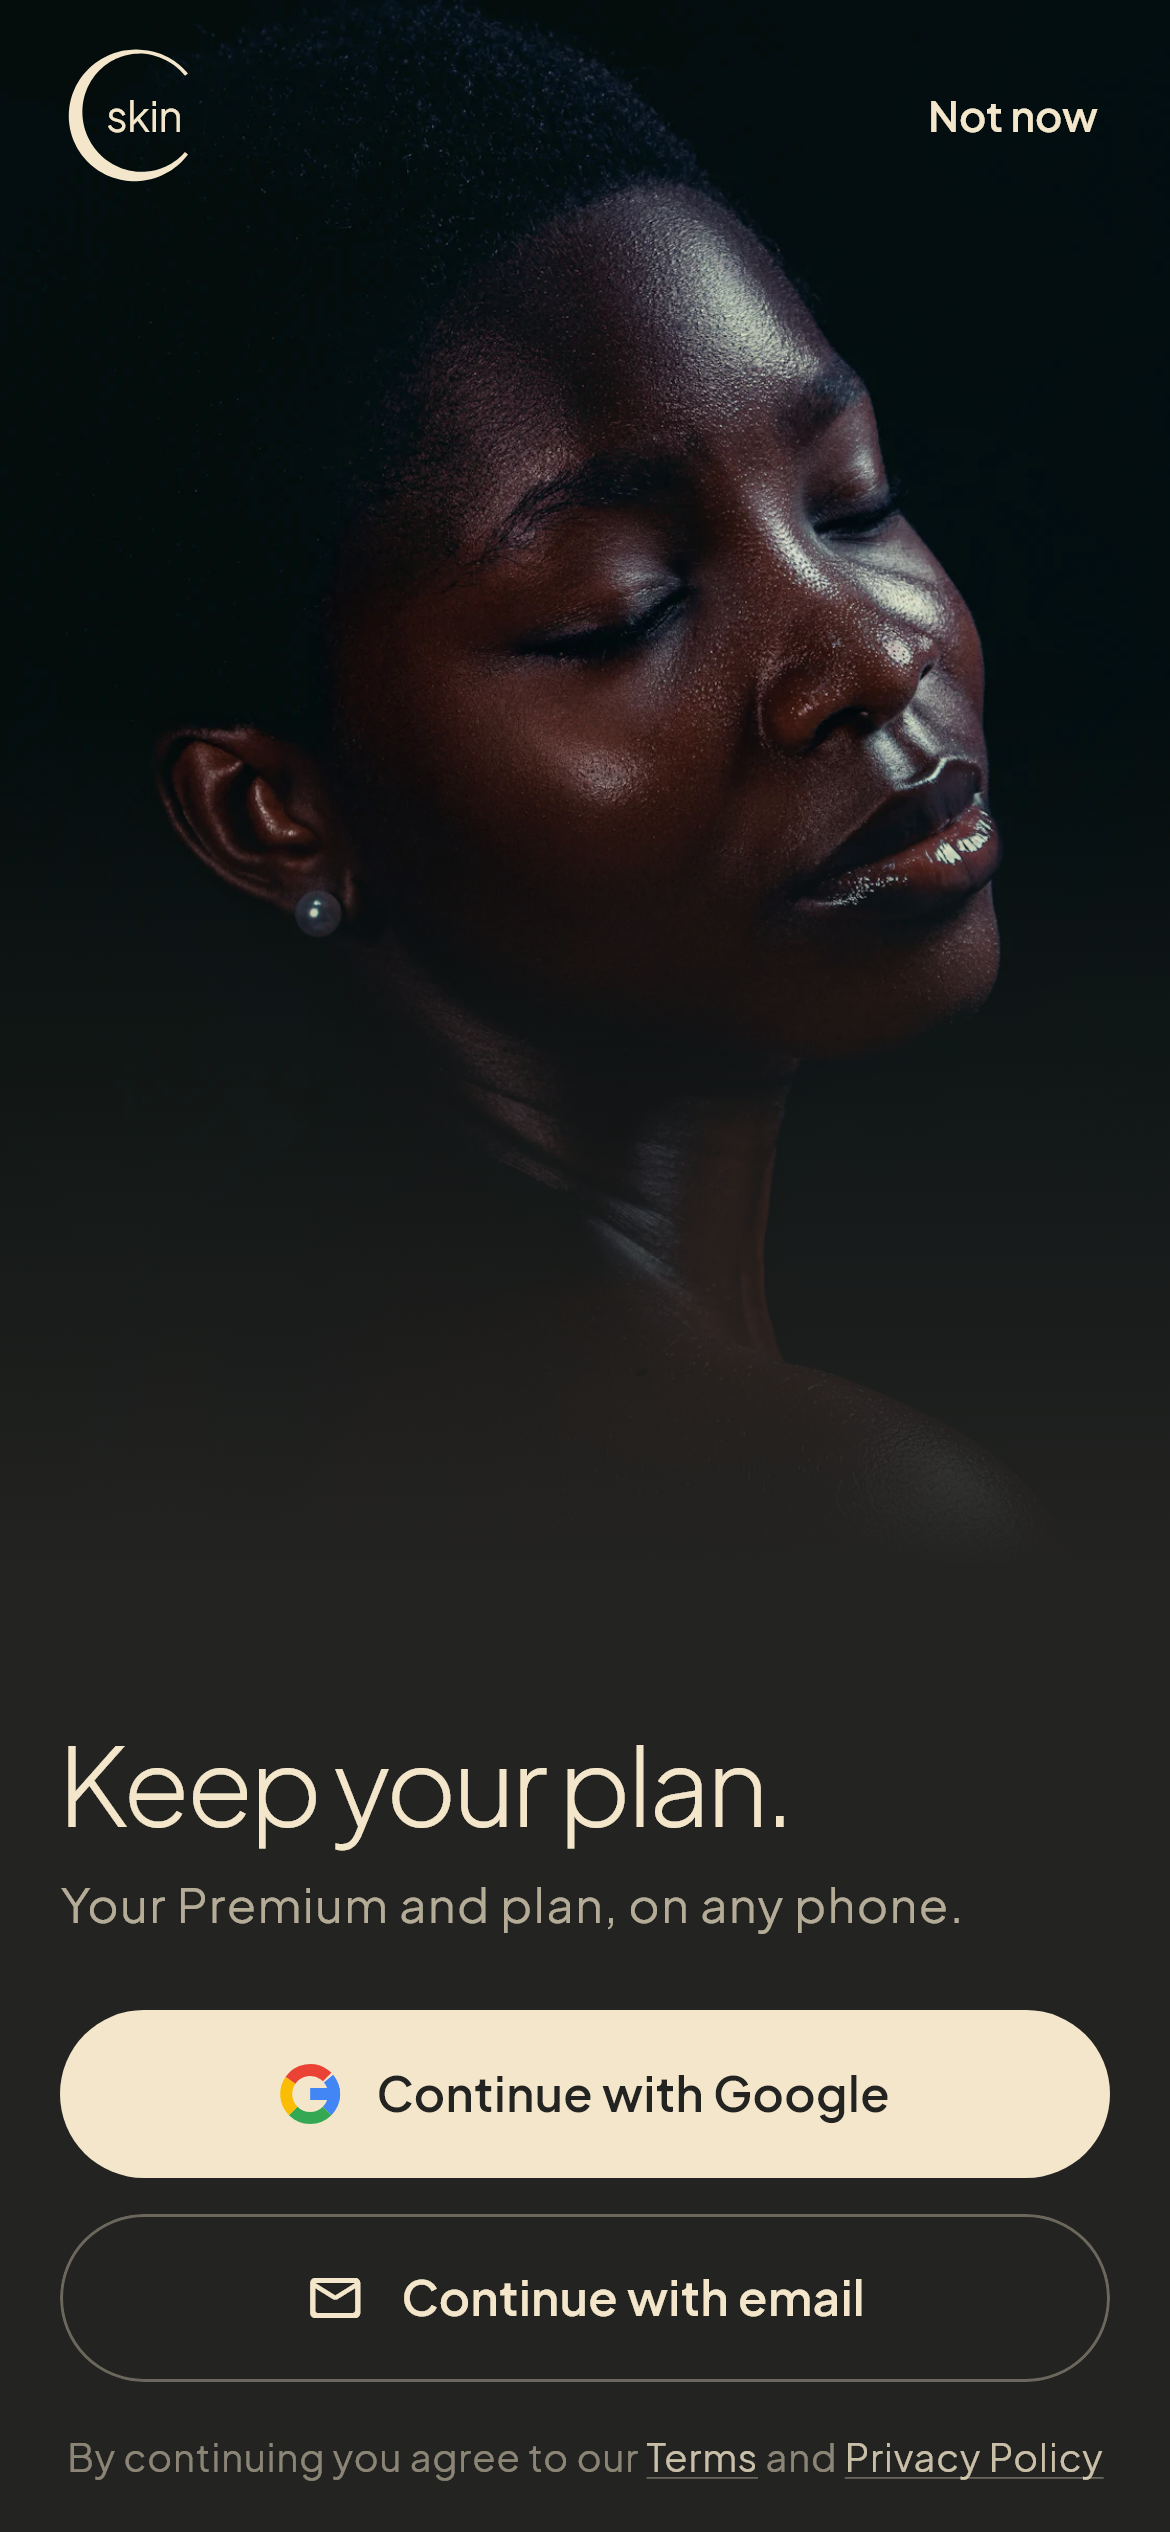
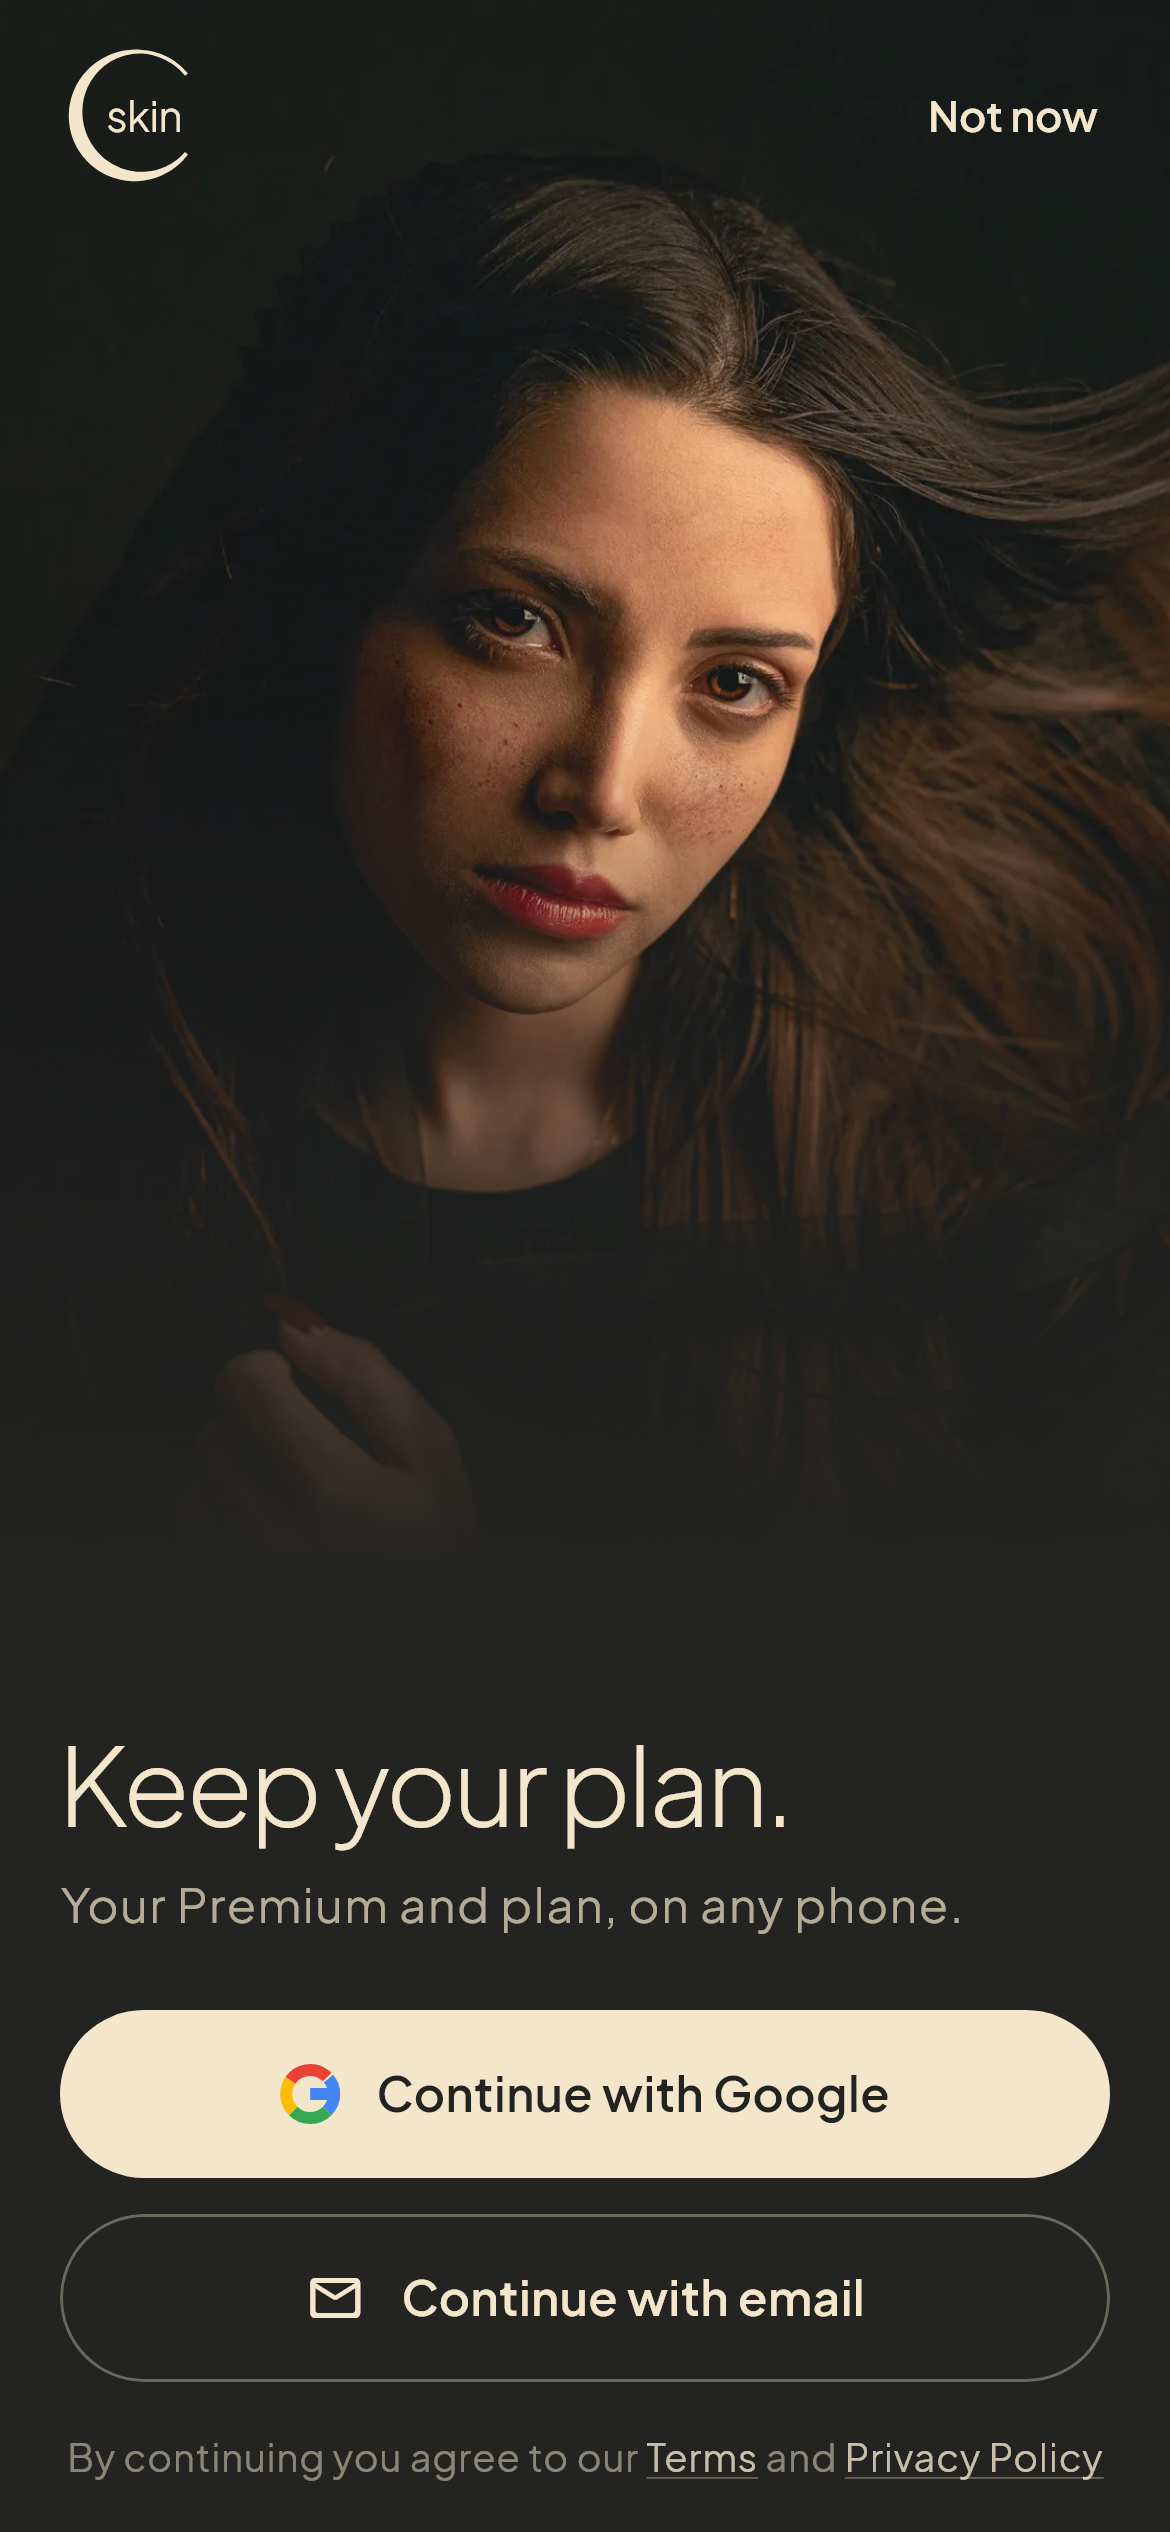
fix(auth): close sign-in after Google and slide between portraits

diff --git a/test/features/sign_in_flow_test.dart b/test/features/sign_in_flow_test.dart
@@ -1,0 +1,106 @@
+import 'package:clearskin_ai/core/providers.dart';
+import 'package:clearskin_ai/core/router/app_router.dart';
+import 'package:clearskin_ai/core/theme/app_theme.dart';
+import 'package:clearskin_ai/data/models/profile.dart';
+import 'package:clearskin_ai/data/models/scan.dart';
+import 'package:clearskin_ai/data/repositories/repositories.dart';
+import 'package:clearskin_ai/services/auth_service.dart';
+import 'package:flutter/material.dart';
+import 'package:flutter_riverpod/flutter_riverpod.dart';
+import 'package:flutter_test/flutter_test.dart';
+
+/// The key-value store in memory.
+class _MemoryKv implements KeyValueStore {
+  final json = <String, Map<String, dynamic>>{};
+  final strings = <String, String>{};
+
+  @override
+  Future<Map<String, dynamic>?> getJson(String key) async => json[key];
+
+  @override
+  Future<void> setJson(String key, Map<String, Object?> value) async =>
+      json[key] = Map<String, dynamic>.from(value);
+
+  @override
+  Future<void> remove(String key) async {
+    json.remove(key);
+    strings.remove(key);
+  }
+
+  @override
+  Future<String?> get(String key) async => strings[key];
+
+  @override
+  Future<void> set(String key, String value) async => strings[key] = value;
+}
+
+/// Google always says yes, after a moment, like the real account picker.
+class _Google extends AuthService {
+  _Google(super.kv);
+
+  @override
+  Future<Account> signInWithGoogle() async {
+    await Future<void>.delayed(const Duration(milliseconds: 300));
+    return const Account(provider: 'google', email: 'amara@example.com');
+  }
+}
+
+class _NoProfile extends ProfileNotifier {
+  @override
+  Future<UserProfile?> build() async => null;
+}
+
+class _NoScans extends ScansNotifier {
+  @override
+  Future<List<SkinScan>> build() async => const [];
+}
+
+class _Accepted extends DisclaimerNotifier {
+  @override
+  Future<bool> build() async => true;
+}
+
+void main() {
+  testWidgets('after Google sign-in, setup moves on and never asks again', (
+    t,
+  ) async {
+    final kv = _MemoryKv();
+    final container = ProviderContainer(
+      overrides: [
+        kvProvider.overrideWithValue(kv),
+        authServiceProvider.overrideWith((ref) => _Google(kv)),
+        profileProvider.overrideWith(_NoProfile.new),
+        scansProvider.overrideWith(_NoScans.new),
+        disclaimerProvider.overrideWith(_Accepted.new),
+      ],
+    );
+    addTearDown(container.dispose);
+    await t.pumpWidget(
+      UncontrolledProviderScope(
+        container: container,
+        child: MaterialApp.router(
+          theme: AppTheme.light(),
+          routerConfig: container.read(routerProvider),
+        ),
+      ),
+    );
+    Future<void> settle() async {
+      for (var i = 0; i < 20; i++) {
+        await t.pump(const Duration(milliseconds: 100));
+      }
+    }
+
+    await settle();
+    await t.tap(find.text('Get started'));
+    await settle();
+    await t.tap(find.text('Skip'));
+    await settle();
+    expect(find.text('Continue with Google'), findsOneWidget);
+
+    await t.tap(find.text('Continue with Google'));
+    await settle();
+
+    expect(find.text('Continue with Google'), findsNothing);
+    expect(find.text('What should we call you?'), findsOneWidget);
+  });
+}

diff --git a/lib/features/auth/auth_screen.dart b/lib/features/auth/auth_screen.dart
@@ -1,6 +1,6 @@
+import 'dart:async';
 import 'dart:math' as math;
 
-import 'package:clock/clock.dart';
 import 'package:flutter/material.dart';
 import 'package:flutter/services.dart';
 import 'package:flutter_animate/flutter_animate.dart';
@@ -39,11 +39,6 @@ class AuthScreen extends ConsumerStatefulWidget {
 class _AuthScreenState extends ConsumerState<AuthScreen> {
   bool _busy = false;
   String? _busyProvider;
-
-  /// Which portrait this visit shows: they take turns, so no one face
-  /// stands for everyone.
-  late final String _portrait =
-      Photos.authPortraits[clock.now().second % Photos.authPortraits.length];
 
   Future<void> _done(Account a) async {
     // Skin photos and results are personal. If this phone holds someone
@@ -140,13 +135,7 @@ class _AuthScreenState extends ConsumerState<AuthScreen> {
               right: 0,
               top: 0,
               height: size.height * 0.62,
-              child: PhotoFill(
-                _portrait,
-                alignment: Alignment(0, -0.2),
-                scrim: 1,
-                scrimStart: 0.45,
-                scrimColor: BrandColors.charcoal,
-              ).animate().fadeIn(duration: 700.ms),
+              child: const _Portraits().animate().fadeIn(duration: 700.ms),
             ),
             // Blend the photo into the charcoal sheet.
             Positioned(
@@ -556,4 +545,68 @@ class _GPainter extends CustomPainter {
 
   @override
   bool shouldRepaint(_GPainter old) => false;
+}
+
+/// The sign-in portraits, different skin tones: they slide from one to the
+/// next on their own and can be swiped either way. No one face stands for
+/// everyone.
+class _Portraits extends StatefulWidget {
+  const _Portraits();
+
+  @override
+  State<_Portraits> createState() => _PortraitsState();
+}
+
+class _PortraitsState extends State<_Portraits> {
+  static const _every = Duration(seconds: 4);
+  static const _photos = Photos.authPortraits;
+
+  // Far from the ends, so swiping back from the first photo works too.
+  final _page = PageController(initialPage: 1000 * _photos.length);
+  Timer? _timer;
+
+  @override
+  void didChangeDependencies() {
+    super.didChangeDependencies();
+    _restart();
+  }
+
+  void _restart() {
+    _timer?.cancel();
+    if (MediaQuery.disableAnimationsOf(context)) return;
+    _timer = Timer.periodic(_every, (_) {
+      if (_page.hasClients) {
+        _page.nextPage(
+          duration: const Duration(milliseconds: 900),
+          curve: Curves.easeInOutCubic,
+        );
+      }
+    });
+  }
+
+  @override
+  void dispose() {
+    _timer?.cancel();
+    _page.dispose();
+    super.dispose();
+  }
+
+  @override
+  Widget build(BuildContext context) {
+    return Listener(
+      // Holding or swiping pauses the slideshow; letting go restarts it.
+      onPointerDown: (_) => _timer?.cancel(),
+      onPointerUp: (_) => _restart(),
+      child: PageView.builder(
+        controller: _page,
+        itemBuilder: (_, i) => PhotoFill(
+          _photos[i % _photos.length],
+          alignment: const Alignment(0, -0.2),
+          scrim: 1,
+          scrimStart: 0.45,
+          scrimColor: BrandColors.charcoal,
+        ),
+      ),
+    );
+  }
 }

diff --git a/tool/screenshots/render_screens_test.dart b/tool/screenshots/render_screens_test.dart
@@ -520,12 +520,8 @@ Future<void> _warmSamplePhoto(WidgetTester tester) async {
 /// overflow fails the test. The stress pass testers do by hand.
 final _qa = Platform.environment['QA'];
 
-Future<void> _shot(
-  WidgetTester tester,
-  Widget app,
-  String name, {
-  DateTime? at,
-}) => withClock(Clock.fixed(at ?? _now), () => _shotNow(tester, app, name));
+Future<void> _shot(WidgetTester tester, Widget app, String name) =>
+    withClock(Clock.fixed(_now), () => _shotNow(tester, app, name));
 
 Future<void> _shotNow(WidgetTester tester, Widget app, String name) async {
   if (_qa == 'small') {
@@ -868,8 +864,6 @@ void main() {
         profile: null,
       ),
       '13b-create-account',
-      // A second later: the sign-in screen's other portrait.
-      at: _now.add(const Duration(seconds: 1)),
     );
   });
 

diff --git a/lib/core/router/app_router.dart b/lib/core/router/app_router.dart
@@ -38,7 +38,17 @@ final routerProvider = Provider<GoRouter>((ref) {
   // person signs in or out.
   final refresh = ValueNotifier<int>(0);
   ref.listen(profileProvider, (_, _) => refresh.value++);
-  ref.listen(accountProvider, (_, _) => refresh.value++);
+  ref.listen(accountProvider, (prev, next) {
+    // Signing in happens on top of setup and needs no redirect. Refreshing
+    // then would rebuild the sign-in page while it finishes, so it never
+    // closes and the person lands on "Continue with" again.
+    final signedIn =
+        prev != null &&
+        !prev.isLoading &&
+        prev.value == null &&
+        next.value != null;
+    if (!signedIn) refresh.value++;
+  });
   ref.listen(disclaimerProvider, (_, _) => refresh.value++);
   ref.onDispose(refresh.dispose);
 

diff --git a/lib/core/widgets/widgets.dart b/lib/core/widgets/widgets.dart
@@ -694,10 +694,10 @@ abstract final class Photos {
   static const _dir = 'assets/images/photos';
 
   /// The only portraits in the app, on the sign-in screen. Different skin
-  /// tones; the screen shows one at a time, taking turns.
+  /// tones; they slide from one to the next, in this order.
   static const auth = '$_dir/auth.webp';
   static const auth2 = '$_dir/auth_2.webp';
-  static const authPortraits = [auth, auth2];
+  static const authPortraits = [auth2, auth];
 
   static const sageWaves = '$_dir/sage_waves.webp';
   static const leafShadow = '$_dir/leaf_shadow.webp';
